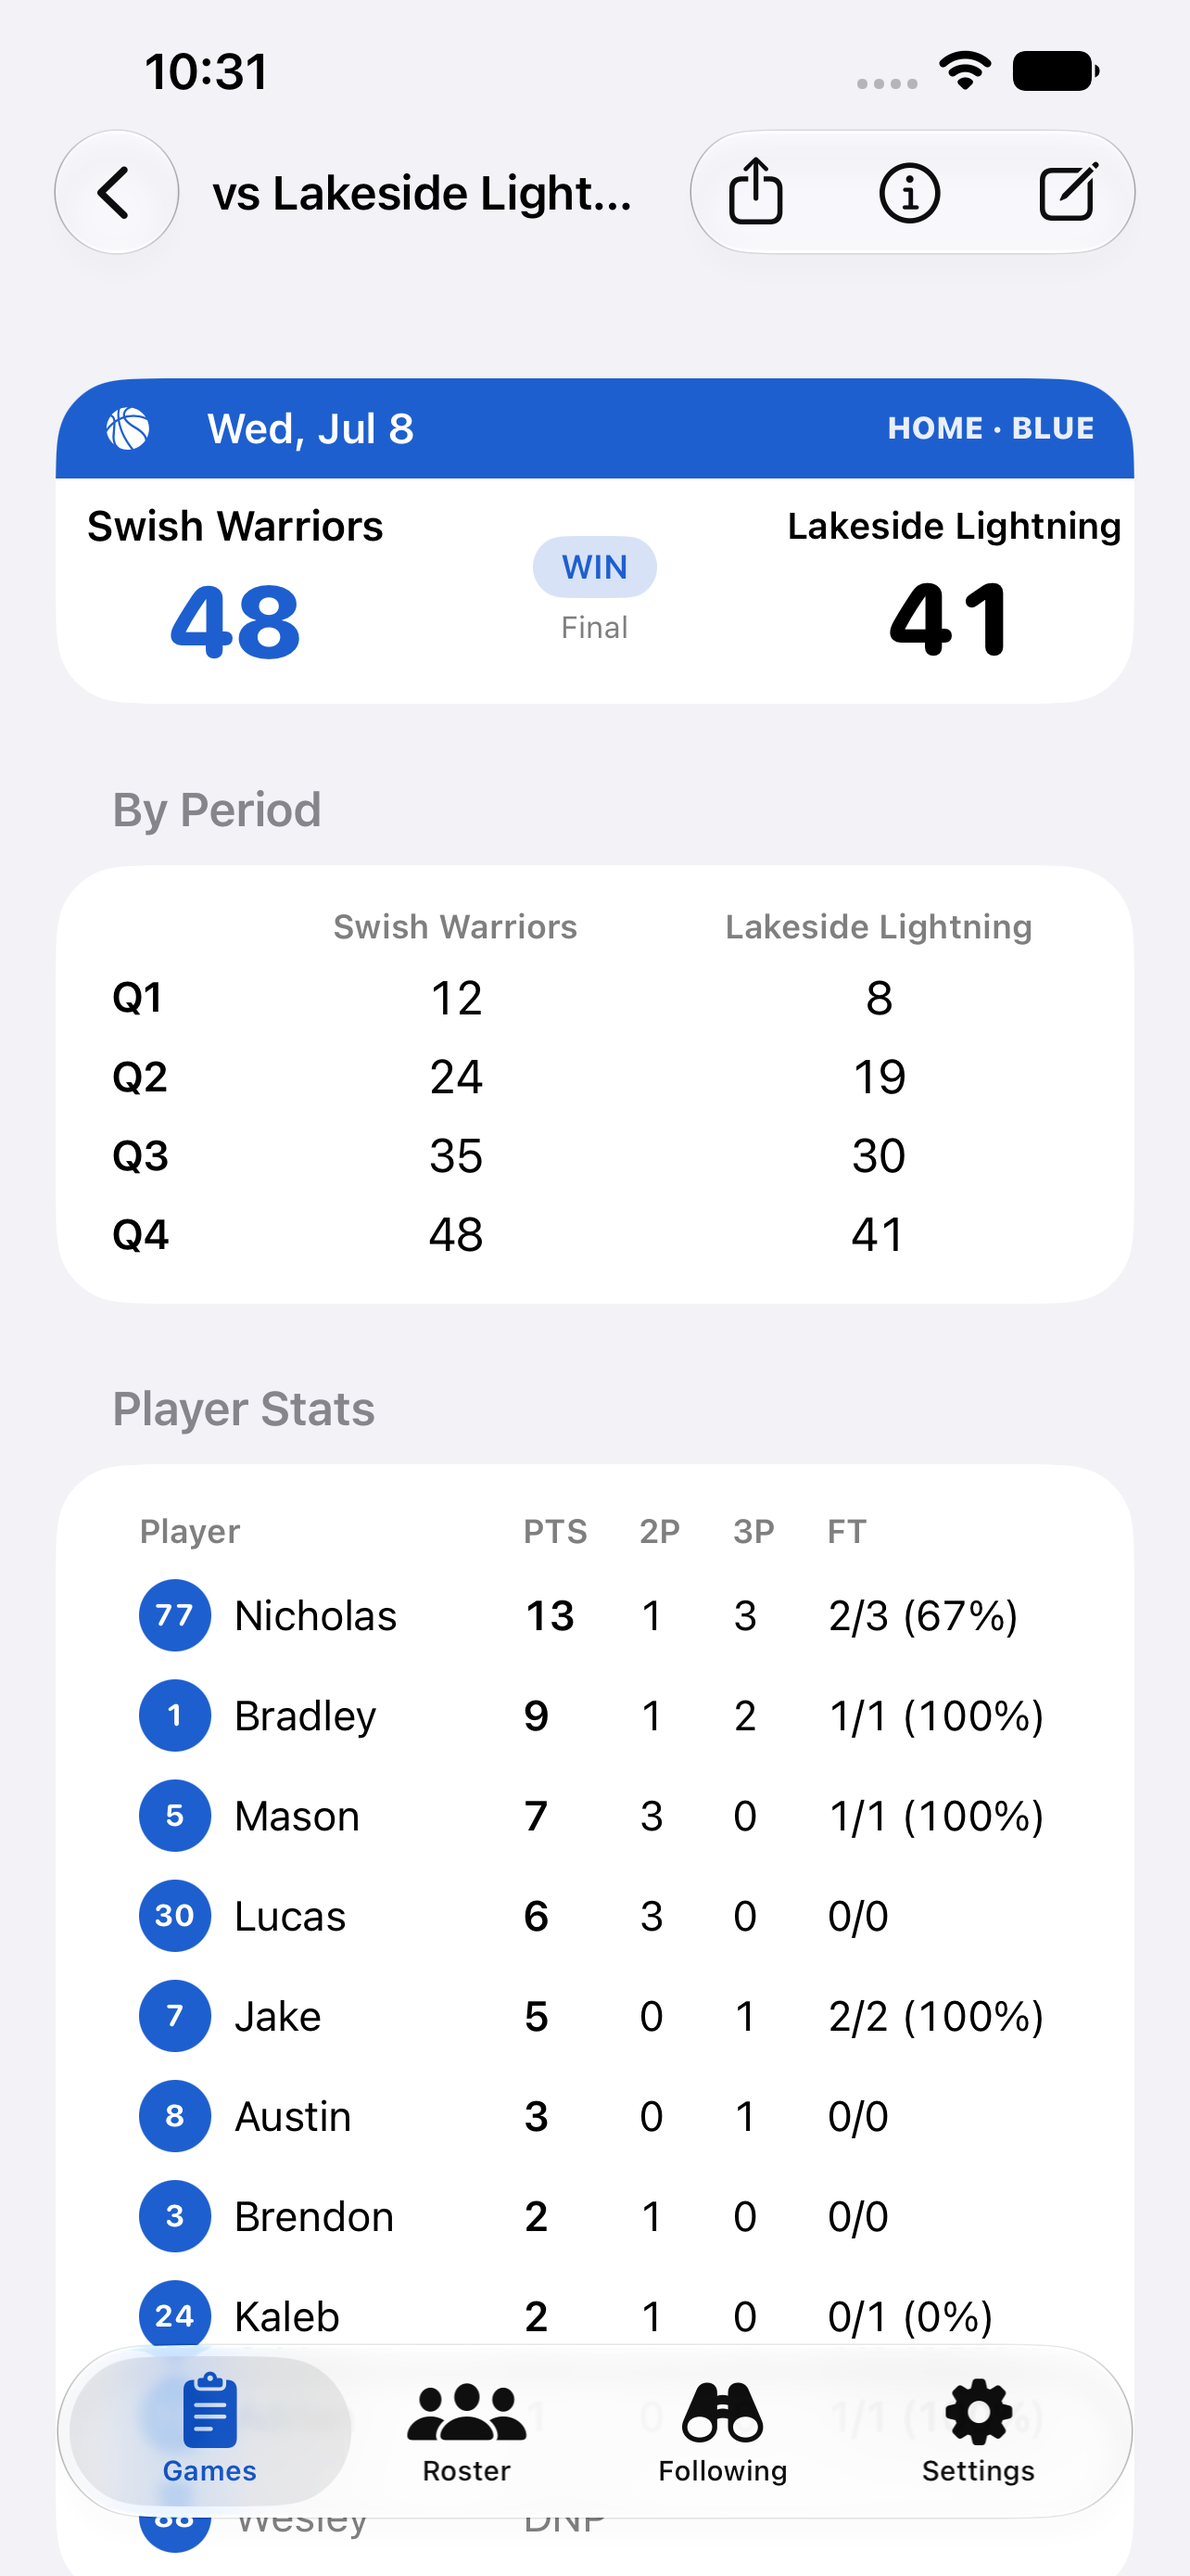
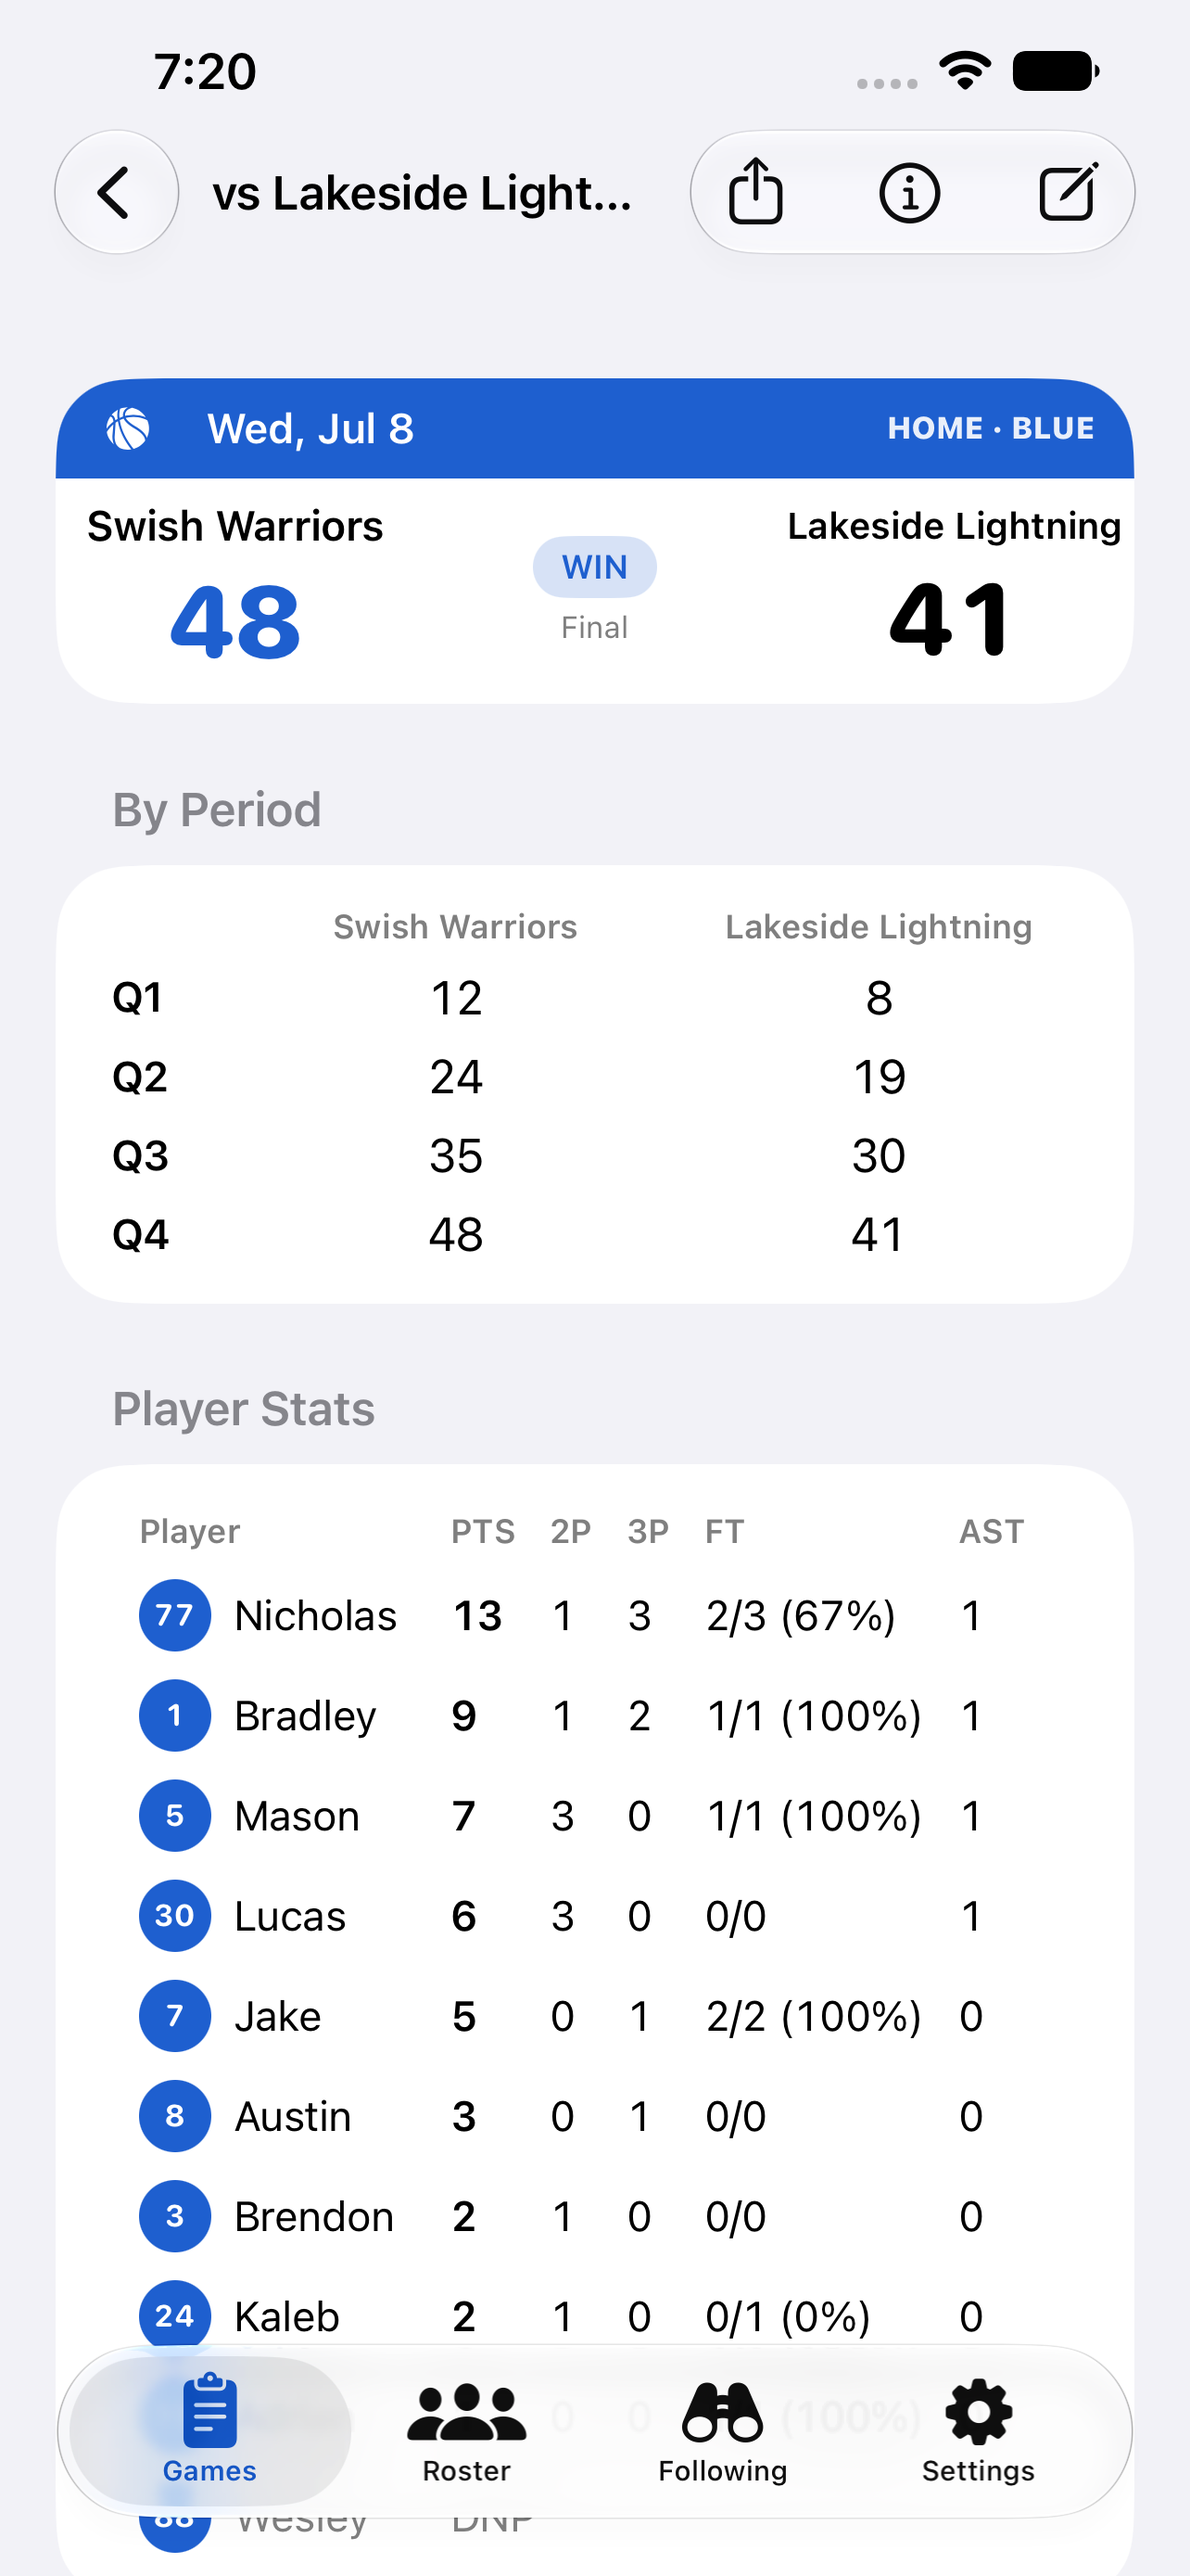
Stop the AST column falling off the Game Summary
v1.6's headline column was added, screenshotted and invisible. The stats
table scrolls horizontally, and iOS draws a horizontal scroll indicator only
*while* scrolling — never at rest — so a column past the right edge isn't
discoverable, it's just gone. At the default text size on a 428pt screen, AST
was past the edge.

Tightened the column gaps (18 → 12) and the player-name column (120 → 100).
All six columns now fit with FT% intact; large text sizes still widen the
columns and scroll, which is what the ScrollView is there for (#12).

Recaptured `05-game-summary.png` — it's the only screenshot in the store set
that shows the on-screen table. The PDF already had room and already showed
AST.

Written up as `UI_GUIDELINES.md` §9 so the next column gets counted rather
than trusted to the scroll.

Claude-Session: https://claude.ai/code/session_01XKw3Fyr61m8RtwfRppQofX

diff --git a/CourtsideHoopStats/Views/StatsPanels.swift b/CourtsideHoopStats/Views/StatsPanels.swift
@@ -179,6 +179,13 @@ struct GameHeaderCard<Leading: View, Trailing: View>: View {
 /// columns grow and the table scrolls sideways instead of clipping the numbers
 /// or squeezing the player name (issue #12). `Grid` keeps header and rows
 /// column-aligned.
+///
+/// The spacing and name width are deliberately tight. Scrolling only rescues
+/// a column someone knows to look for: iOS shows a horizontal scroll
+/// indicator while scrolling, never at rest, so anything past the right edge
+/// is simply invisible. AST was added, screenshotted and off the edge here at
+/// the default text size. Six columns fit a 428pt screen at this spacing;
+/// count the width before adding a seventh.
 struct PlayerStatsTable: View {
     let stats: [PlayerStats]
     /// Players who sat the game out, listed below the scorers as **DNP**
@@ -188,9 +195,9 @@ struct PlayerStatsTable: View {
 
     var body: some View {
         ScrollView(.horizontal, showsIndicators: false) {
-            Grid(alignment: .leading, horizontalSpacing: 18, verticalSpacing: 10) {
+            Grid(alignment: .leading, horizontalSpacing: 12, verticalSpacing: 10) {
                 GridRow {
-                    Text("Player").frame(minWidth: 120, alignment: .leading)
+                    Text("Player").frame(minWidth: 100, alignment: .leading)
                     Text("PTS")
                     Text("2P")
                     Text("3P")
@@ -206,7 +213,7 @@ struct PlayerStatsTable: View {
                             JerseyBadge(number: stat.player.number, size: 26)
                             Text(stat.player.firstName).lineLimit(1)
                         }
-                        .frame(minWidth: 120, alignment: .leading)
+                        .frame(minWidth: 100, alignment: .leading)
                         Text("\(stat.points)").bold()
                         Text("\(stat.twoPointers)")
                         Text("\(stat.threePointers)")
@@ -225,7 +232,7 @@ struct PlayerStatsTable: View {
                             JerseyBadge(number: player.number, size: 26)
                             Text(player.firstName).lineLimit(1)
                         }
-                        .frame(minWidth: 120, alignment: .leading)
+                        .frame(minWidth: 100, alignment: .leading)
                         Text("DNP")
                             .gridCellColumns(5)
                     }

diff --git a/docs/UI_GUIDELINES.md b/docs/UI_GUIDELINES.md
@@ -105,7 +105,20 @@ the OS-level `-UIPreferredContentSizeCategoryName` argument does **not** reach
 a SwiftUI app whose root applies its own `.dynamicTypeSize` floor, and a test
 that uses it silently exercises the default size instead.
 
-## 9. Owning a team and following one must look different
+## 9. A scrollable table hides columns silently — count the width
+
+`PlayerStatsTable` scrolls horizontally so large text sizes widen columns
+instead of clipping them. The cost: anything past the right edge is invisible
+at the *default* size too, because a horizontal scroll indicator only shows
+while scrolling. Nobody discovers a column they've never seen.
+
+AST was added, screenshotted, and off the edge in the Game Summary at the
+default text size. So when adding a column, add up the widths against the
+narrowest supported screen rather than trusting the scroll to save you, and
+read the column off a fresh screenshot. Two levers, in order: the column gaps,
+then the widest value's format.
+
+## 10. Owning a team and following one must look different
 
 The Games tab and the Following tab show the same team, the same games, the same
 stats. The only structural difference is that one accepts taps that change the
